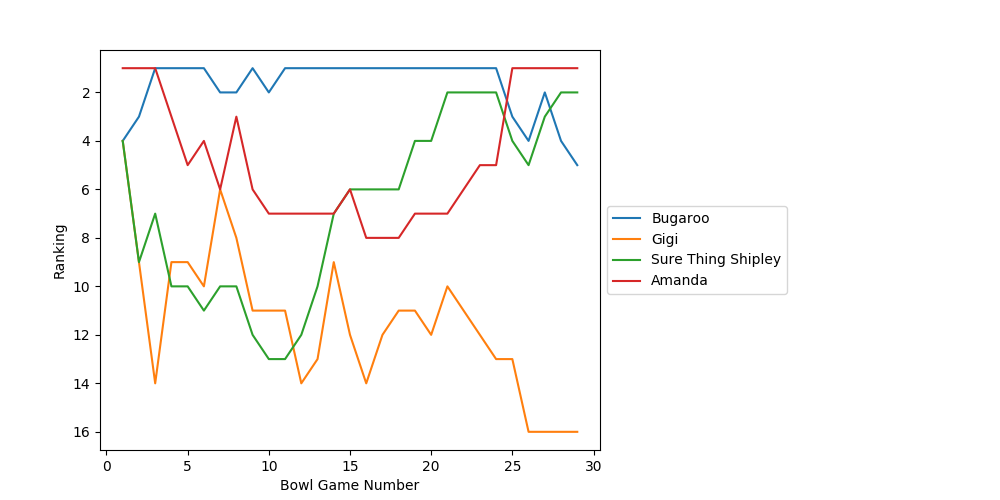
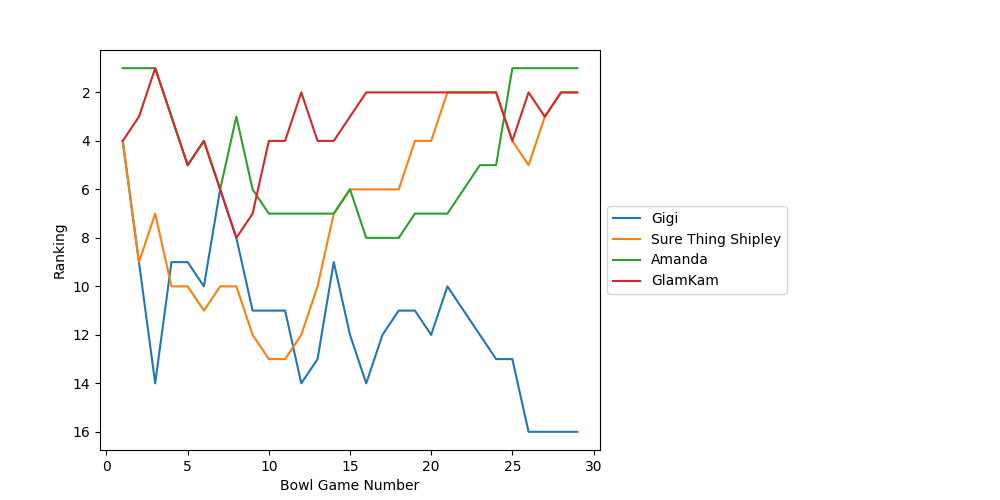
Semifinals update with highlights

diff --git a/bowl_pool/2022-2023/rankings.html b/bowl_pool/2022-2023/rankings.html
@@ -364,15 +364,15 @@ ul.auto-toc {
 
 
 <div class="line-block">
-<div class="line"><em>Last updated:  2022-12-31 23:47:13</em></div>
+<div class="line"><em>Last updated:  2022-12-31 23:49:23</em></div>
 <div class="line"><em>Last bowl scored:  Peach Bowl (Georgia vs. Ohio State)</em></div>
 </div>
 <div class="line-block">
 <div class="line">1. <strong>Amanda 27.25</strong></div>
-<div class="line">2. GlamKam 25.0</div>
+<div class="line">2. <strong>GlamKam 25.0</strong></div>
 <div class="line">2. <strong>Sure Thing Shipley 25.0</strong></div>
 <div class="line">4. Badgers 24.0</div>
-<div class="line">5. <strong>Bugaroo 23.25</strong></div>
+<div class="line">5. Bugaroo 23.25</div>
 <div class="line">6. blue orred 23.0</div>
 <div class="line">7. Bear-in-Law 22.5</div>
 <div class="line">7. bopper 22.5</div>

diff --git a/bowl_pool/2022-2023/index.html b/bowl_pool/2022-2023/index.html
@@ -365,7 +365,7 @@ ul.auto-toc {
 
 <p><strong>2022-2023 Bowl Pool</strong></p>
 <div class="line-block">
-<div class="line"><em>Last updated:  2022-12-31 23:47:14</em></div>
+<div class="line"><em>Last updated:  2022-12-31 23:49:23</em></div>
 <div class="line"><em>Last bowl scored:  Peach Bowl (Georgia vs. Ohio State)</em></div>
 </div>
 <ul class="simple">
